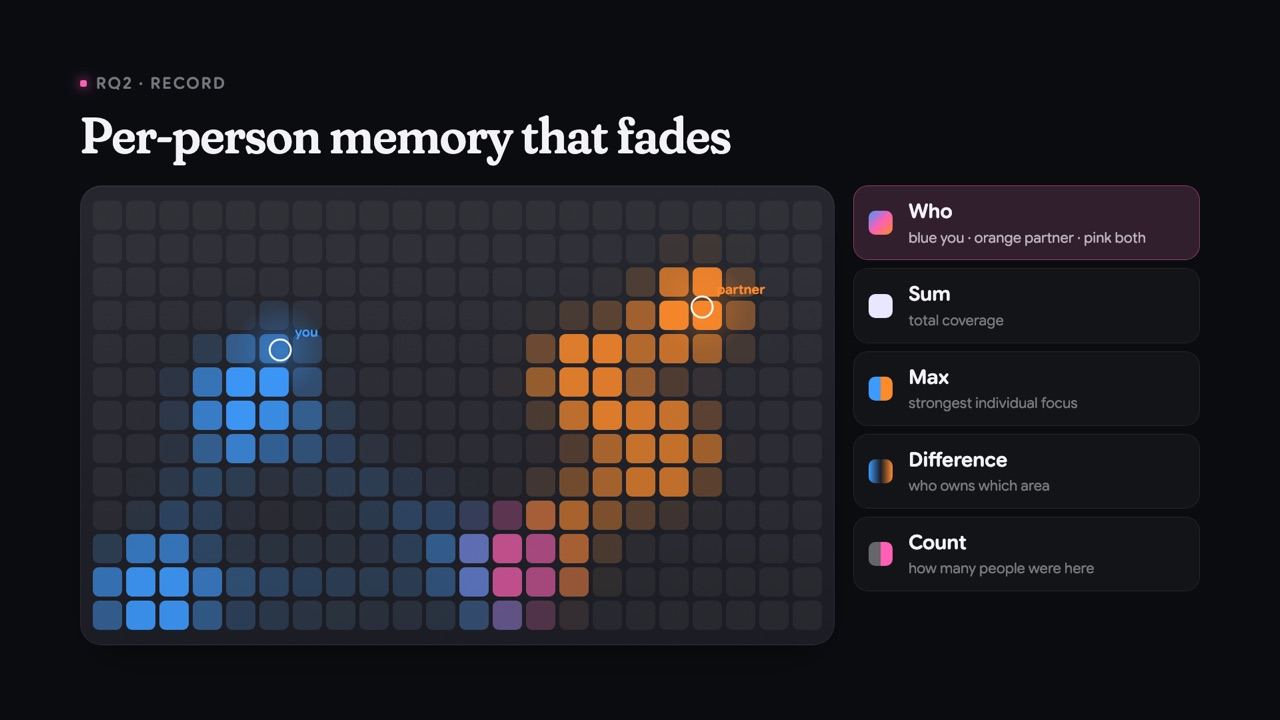
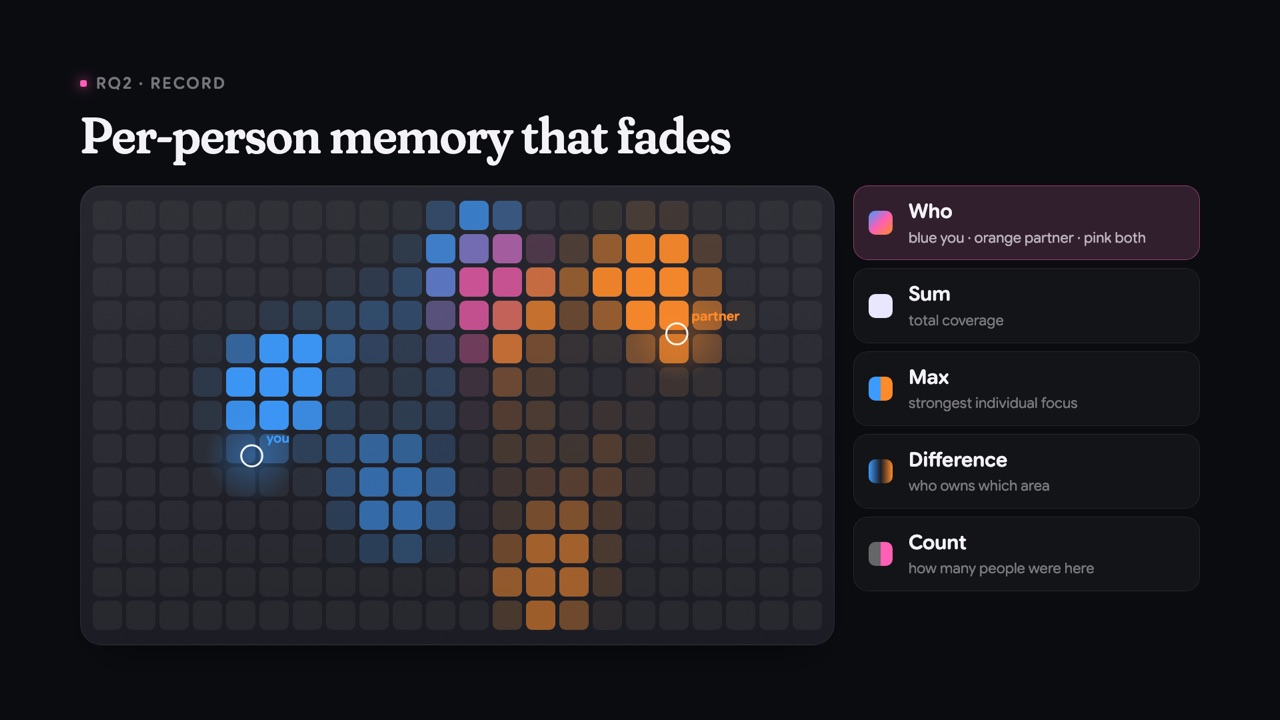
Serve from the arvindchee.nu custom domain
- QR code and transcript link point at arvindchee.nu/heedvision-talk
- Worker accepts the custom-domain origin
- Poster/PDF tools stop with a clear message when no local server is running

Changed region(s): [[0.0625, 0.275, 0.5938, 0.8861]]

diff --git a/js/config.js b/js/config.js
@@ -1,7 +1,7 @@
 // Site-wide settings. Edit these, nothing else needs to change.
 window.HV = {
   // Public address of the transcript page (shown as text and QR code).
-  talkUrl: "https://arvindcheenu.github.io/heedvision-talk/talk/",
+  talkUrl: "https://arvindchee.nu/heedvision-talk/talk/",
 
   // Cloudflare Worker that relays the presenter's slide and stores questions.
   // Leave empty to run fully offline (no follow-along, no questions).

diff --git a/README.md b/README.md
@@ -36,7 +36,7 @@ npx wrangler secret put PRESENTER_KEY
 npx wrangler deploy
 ```
 
-Put the printed `https://heedvision-live.<you>.workers.dev` URL into `js/config.js` (`live.endpoint`). If your GitHub Pages address differs from `arvindcheenu.github.io`, update `ALLOWED_ORIGINS` in `worker/wrangler.jsonc`.
+Put the printed `https://heedvision-live.<you>.workers.dev` URL into `js/config.js` (`live.endpoint`). The site is served from `arvindchee.nu` (your Pages custom domain); if that changes, update `ALLOWED_ORIGINS` in `worker/wrangler.jsonc`.
 
 To test locally, run `npx wrangler dev --port 8787` in `worker/` (it reads `PRESENTER_KEY` from `.dev.vars`). Then add `?live=http://127.0.0.1:8787` to the deck and transcript URLs.
 
